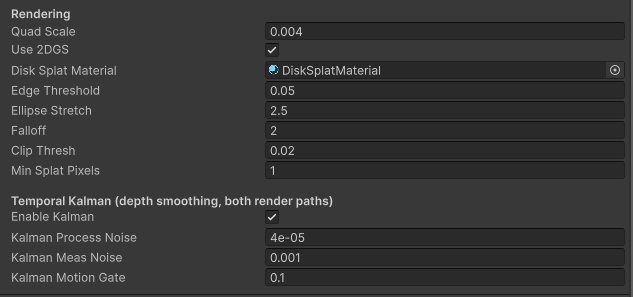
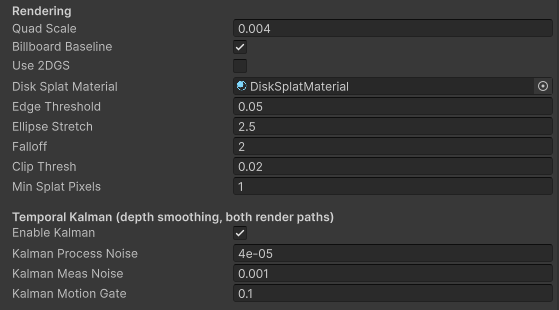
added results

Changed region(s): [[0.0, 0.0, 1.0, 1.0], [0.0, 0.0, 0.2129, 0.6364], [0.4258, 0.1515, 0.4562, 0.1818]]

diff --git a/README.md b/README.md
@@ -35,16 +35,18 @@ passed in.
   to avoid smearing.
 - **Back-projection:** depth to a 3D position.
 - **Normals:** finite differences over neighbouring points.
-- **Edge detection:** depth discontinuities are billboarded toward the camera rather than
-  stretched across the gap.
+- **Edge detection:** depth discontinuities are given a fixed forward-facing normal (flattened
+  to a billboard) rather than tilted across the gap.
 - **Tangent + anisotropy:** per-axis disk stretch and orientation from the local surface.
 
 **3. Rasterise (vertex + fragment shader).** Each point is expanded to a quad, oriented to the
 surface and stretched into an ellipse, with a Gaussian falloff. Rendered opaque with overlaps
-resolved by the depth buffer — no per-frame sorting, no transparency ordering — and MSAA on
+resolved by the depth buffer (no per-frame sorting, no transparency ordering), with MSAA on
 edges.
 
-Two modes are provided: the oriented disks, and plain camera-facing quads as a baseline.
+Two modes are provided: the surface-oriented disks above, and a simpler baseline that draws each
+point as a flat quad, either camera-facing (a billboard, always facing the viewer) or offset in
+the sensor image plane (which foreshortens edge-on).
 
 ## Results
 
@@ -53,12 +55,39 @@ consistent between runs. All settings were held constant; only the feature under
 enabled/disabled. Object detection was CPU-bound throughout (no GPU/OpenVINO), so that overhead
 is included in its figures.
 
-Clips are 1.5x speed and loop.
+Three primitives are compared: a flat image-plane quad (the naive baseline), surface-oriented
+2D Gaussian surfels, and a camera-facing billboard.
 
-### Base point cloud
+The flat quad foreshortens at oblique angles and leaves visible gaps up close and side-on. Both
+the surfels and the billboard remove this. The surfels run at roughly 30 to 45 render fps; the
+billboard is comparable (about 30 to 40) and, in these scenes, looks as good or better while
+being far simpler. The flat quad is faster (40 to 60) only by doing and showing less.
+
+In short, orienting splats to the surface did not visibly help here over a view-facing
+billboard: the surfels' theoretical advantages (correct occlusion, anisotropic fill on grazing
+surfaces) were not significant in this streaming RGB-D setting, and they cost more and add some
+temporal instability. The billboard figures are also unoptimised (it still renders in a
+transparent, depth-write-off pass), so it could be made faster still.
+
+The camera stream rate is unchanged across modes, as expected (sensor-bound, not render-bound).
+All clips loop. The 2D Gaussian (Kalman) and billboard clips play at 1x; the other clips are
+1.5x. The billboard was captured with the Kalman filter only.
+
+### Billboard vs 2D Gaussian (Kalman)
+
+<div align="center">
+<table width="100%">
+<tr>
+<td width="50%" align="center"><b>Camera-facing billboard</b><br><img src="media/plc_billboard_kf_enabled.webp" alt="Camera-facing billboard, Kalman" width="100%"></td>
+<td width="50%" align="center"><b>2D Gaussian surfels</b><br><img src="media/2dgs_kf_enabled.webp" alt="2D Gaussian surfels, Kalman" width="100%"></td>
+</tr>
+</table>
+</div>
+
+### Flat image-plane quad (naive baseline)
 
 **No Kalman**
-<p align="center"><img src="media/plc_no_kf.webp" alt="Base point cloud, no Kalman" width="600"></p>
+<p align="center"><img src="media/plc_no_kf.webp" alt="Flat quad, no Kalman" width="600"></p>
 
 **Kalman**
 <p align="center"><img src="media/pcl_kf_enabled.webp" alt="Base point cloud, Kalman" width="600"></p>
@@ -76,6 +105,11 @@ Clips are 1.5x speed and loop.
 
 **Kalman + object detection**
 <p align="center"><img src="media/2dgs_kf_objd_enabled.webp" alt="2D Gaussian surfels, Kalman + object detection" width="600"></p>
+
+### Camera-facing billboard
+
+**Kalman**
+<p align="center"><img src="media/plc_billboard_kf_enabled.webp" alt="Camera-facing billboard, Kalman" width="600"></p>
 
 ### Settings
 <p align="center"><img src="media/settings.png" alt="Inspector settings" width="600"></p>
